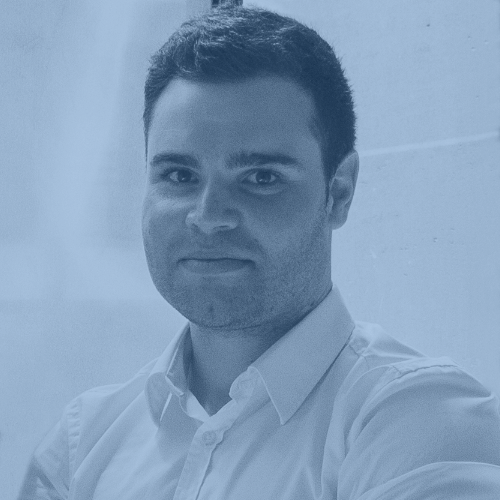
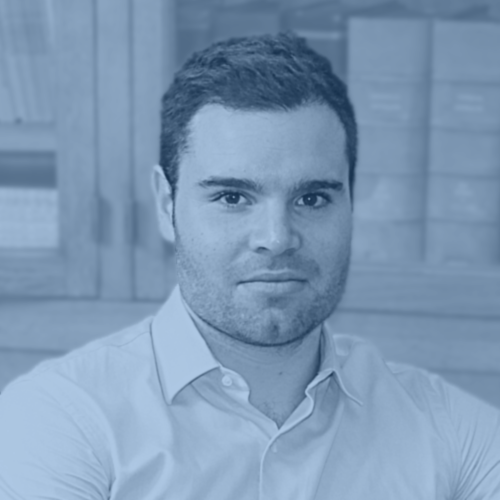
flou team

diff --git a/index.html b/index.html
@@ -327,12 +327,13 @@
             <div class="row text-center">
               <div class="col-md-4 col-sm-12 wow counter fadeIn">
                 <img src="assets/img/visuels/carotte.png" alt="">
-                <h1 class="numbers timer percent" data-from="0" data-to="70"
+                <h1 class="numbers timer percent" data-from="0" data-to="65"
                                     data-speed="3000"></h1>
-                                    <!-- 70% -->
-                <p>De protéines végétales</p>
-                <p>contenues dans 20g </p>
-                <p>de spiruline sèche.</p>
+                                    <!-- 65% -->
+                <p>De protéines</p>
+                <p>végétales contenues</p>
+                <p>en moyenne dans la spiruline.</p>
+
               </div>
               <div class="col-md-4 col-sm-12 wow fadeIn">
                 <img src="assets/img/visuels/medaille.png" alt="">
@@ -340,17 +341,18 @@
                                     data-speed="3000"></h1>
                                     <!-- 3 -->
                 <p>Microalgues homologuées</p>
-                <p>propres à la consommation</p>
-                <p>humaine.</p>
+                <p>propres à la consommation humaine,</p>
+                <p>sur 200 000 à 7M d'espèces estimées.</p>
               </div>
               <div class="col-md-4 col-sm-12 wow fadeIn">
                 <img src="assets/img/visuels/tracteur.png" alt="">
-                <h1 class="numbers timer" data-from="0" data-to="300"
+                <h1 class="numbers timer percent" data-from="0" data-to="70"
                                     data-speed="3000"></h1>
                                     <!-- 300 -->
-                <p>Fois moins de surface agricole</p>
-                <p>nécessaire à la production de</p>
-                <p>microalgues.</p>
+                <p>d'augmentation de</p>
+                <p>la production alimentaire</p>
+                <p>mondiale d'ici 2050.</p>
+
               </div>
             </div>
           </div>
@@ -528,7 +530,7 @@
       <div class="container-fluid">
         <div class="row text-center">
           <div class="col-lg-12 wow fadeIn">
-            <h1 class="section-title">Springwave</h1>
+            <h1 class="section-title">Premier produit</h1>
           </div>
         </div>
       </div>
@@ -540,8 +542,8 @@
               <div class="row">
                   <div class="col-md-6">
                       <div class="project-details">
-                          <img src="assets/img/visuels/logo2.png" class="img-responsive client-logo" alt="">
-                          <h2 class="project-description">Notre premier produit.</h2>
+                          <img src="assets/img/visuels/logo3.png" class="img-responsive client-logo" alt="">
+                          <!-- <h2 class="project-description">Notre premier produit.</h2> -->
                       </div>
                       <div class="project-details">
                         <a href="#portfolioModal1" data-toggle="modal" class="btn btn-outline-light">Voir plus de détails <i class="fa fa-long-arrow-right fa-fw"></i></a>
@@ -1123,6 +1125,36 @@
                             </div>
                         </div>
 
+                        <div class="portfolio graphic" data-cat="graphic">
+                            <div class="portfolio-wrapper">
+                              <a href="https://fr.linkedin.com/pub/maxime-pecquet/b2/67/493" target="_blank">
+                                <img src="assets/img/people/julien_bleu.png" alt="">
+                                <div class="caption">
+                                    <div class="caption-text">
+                                        <a href="https://fr.linkedin.com/pub/maxime-pecquet/b2/67/493" target="_blank" class="text-title">Julien BENCHEICK</a>
+                                        <span class="text-category">Recherche procédés</span>
+                                    </div>
+                                    <div class="caption-bg"></div>
+                                </div>
+                              </a>
+                            </div>
+                        </div>
+
+                        <div class="portfolio graphic" data-cat="graphic">
+                            <div class="portfolio-wrapper">
+                              <a href="#contact-titre">
+                                <img src="assets/img/people/gaetan-bleu-flou.png" alt="">
+                                <div class="caption">
+                                    <div class="caption-text">
+                                        <a href="#contact-titre" class="text-title">Notre projet vous plait ?</a>
+                                        <span class="text-category">Rejoignez-nous !</span>
+                                    </div>
+                                    <div class="caption-bg"></div>
+                                </div>
+                              </a>
+                            </div>
+                        </div>
+
                     </div>
                 </div>
             </div>
@@ -1305,7 +1337,7 @@
                                 <img src="assets/img/partenaires/accor.png" alt="">
                                 <div class="caption">
                                     <div class="caption-text">
-                                        <a href="http://www.accorhotels.com/fr" target="_blank" class="text-title">Groupe Accord</a>
+                                        <a href="http://www.accorhotels.com/fr" target="_blank" class="text-title">Groupe Accor</a>
                                     </div>
                                     <div class="caption-bg"></div>
                                 </div>

diff --git a/assets/css/vitality-green.css b/assets/css/vitality-green.css
@@ -85,6 +85,7 @@ section {
   font-size: 27px;
   text-align: center;
 }
+
 #springwave img {
   width: 50%;
   margin-left: 26%;
@@ -501,6 +502,7 @@ header .btn-play .right {
 section#manifeste-titre, section#metiers-titre, section#contact-titre {
   color: #3778bc;
 }
+
 section#springwave-titre, section#histoire-titre, section#equipe-titre, section#partenaires-titre {
   color: #3778bc;
   padding-bottom: 0px;
